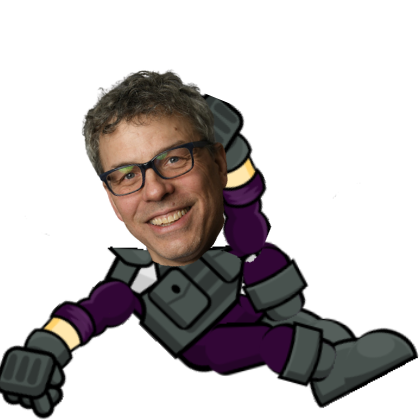
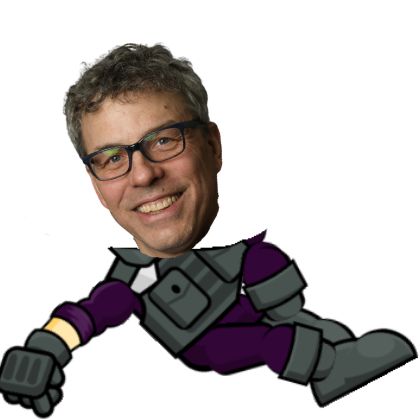
Fixed Chris slide sprite

Changed region(s): [[0.1238, 0.0929, 0.65, 0.65]]

diff --git a/player.py b/player.py
@@ -174,13 +174,13 @@ class Player(object):
         ##Running left 0-8
         self.running_sprites=[]
         for i in range(9):
-            self.sprite2=arcade.load_texture(f"images/SPL/Run00{i}.png",flipped_horizontally = True)
+            self.sprite2=arcade.load_texture(f"images/Chris/Run00{i}.png",flipped_horizontally = True)
             self.running_sprites.append(self.sprite2)
 
        ###Left 
        ##9-17
         for i in range(9):
-            self.sprite2=arcade.load_texture(f"images/SPL/Run00{i}.png")
+            self.sprite2=arcade.load_texture(f"images/Chris/Run00{i}.png")
             self.running_sprites.append(self.sprite2)
      
 
@@ -190,61 +190,61 @@ class Player(object):
         # self.idle_sprite.append(self.sprite2)
         
         for i in range(9):
-            self.sprite2=arcade.load_texture(f"images/SPL/Idle.png",flipped_horizontally = True)
+            self.sprite2=arcade.load_texture(f"images/Chris/Idle.png",flipped_horizontally = True)
             self.idle_sprite.append(self.sprite2)
 
        ###Left####
        ##9-17
         for i in range(9):
-            self.sprite2=arcade.load_texture(f"images/SPL/Idle.png")
+            self.sprite2=arcade.load_texture(f"images/Chris/Idle.png")
             self.idle_sprite.append(self.sprite2)
         
 
         ##########JUMPING###################
         self.jumping_sprites=[]
         for i in range(9):
-            self.sprite2=arcade.load_texture(f"images/SPL/Jump00{i}.png",flipped_horizontally = True)
+            self.sprite2=arcade.load_texture(f"images/Chris/Jump00{i}.png",flipped_horizontally = True)
             self.jumping_sprites.append(self.sprite2)
 
        ###Left 
        ##9-17
         for i in range(9):
-            self.sprite2=arcade.load_texture(f"images/SPL/Jump00{i}.png")
+            self.sprite2=arcade.load_texture(f"images/Chris/Jump00{i}.png")
             self.running_sprites.append(self.sprite2)
      
       ########Crouching####################
         self.crouching_sprites=[]
         for i in range(9):
-            self.sprite2=arcade.load_texture(f"images/SPL/Slide.png",flipped_horizontally = True)
+            self.sprite2=arcade.load_texture(f"images/Chris/Slide.png",flipped_horizontally = True)
             self.crouching_sprites.append(self.sprite2)
 
        ###Left 
        ##9-17
         for i in range(9):
-            self.sprite2=arcade.load_texture(f"images/SPL/Slide.png")
+            self.sprite2=arcade.load_texture(f"images/Chris/Slide.png")
             self.crouching_sprites.append(self.sprite2)
      ###Attack####
         self.attack_sprites=[]
         for i in range(9):
-            self.sprite2=arcade.load_texture(f"images/SPL/Attack00{i}.png",flipped_horizontally = True)
+            self.sprite2=arcade.load_texture(f"images/Chris/Attack00{i}.png",flipped_horizontally = True)
             self.attack_sprites.append(self.sprite2)
 
        ###Left 
        ##9-17
         for i in range(9):
-            self.sprite2=arcade.load_texture(f"images/SPL/Attack00{i}.png")
+            self.sprite2=arcade.load_texture(f"images/Chris/Attack00{i}.png")
             self.attack_sprites.append(self.sprite2)
 
         ###Jump Attack####
         self.jattack_sprites=[]
         for i in range(9):
-            self.sprite2=arcade.load_texture(f"images/SPL/JumpAttack00{i}.png",flipped_horizontally = True)
+            self.sprite2=arcade.load_texture(f"images/Chris/JumpAttack00{i}.png",flipped_horizontally = True)
             self.jattack_sprites.append(self.sprite2)
 
        ###Left 
        ##9-17
         for i in range(9):
-            self.sprite2=arcade.load_texture(f"images/SPL/JumpAttack00{i}.png")
+            self.sprite2=arcade.load_texture(f"images/Chris/JumpAttack00{i}.png")
             self.jattack_sprites.append(self.sprite2)
 
 
